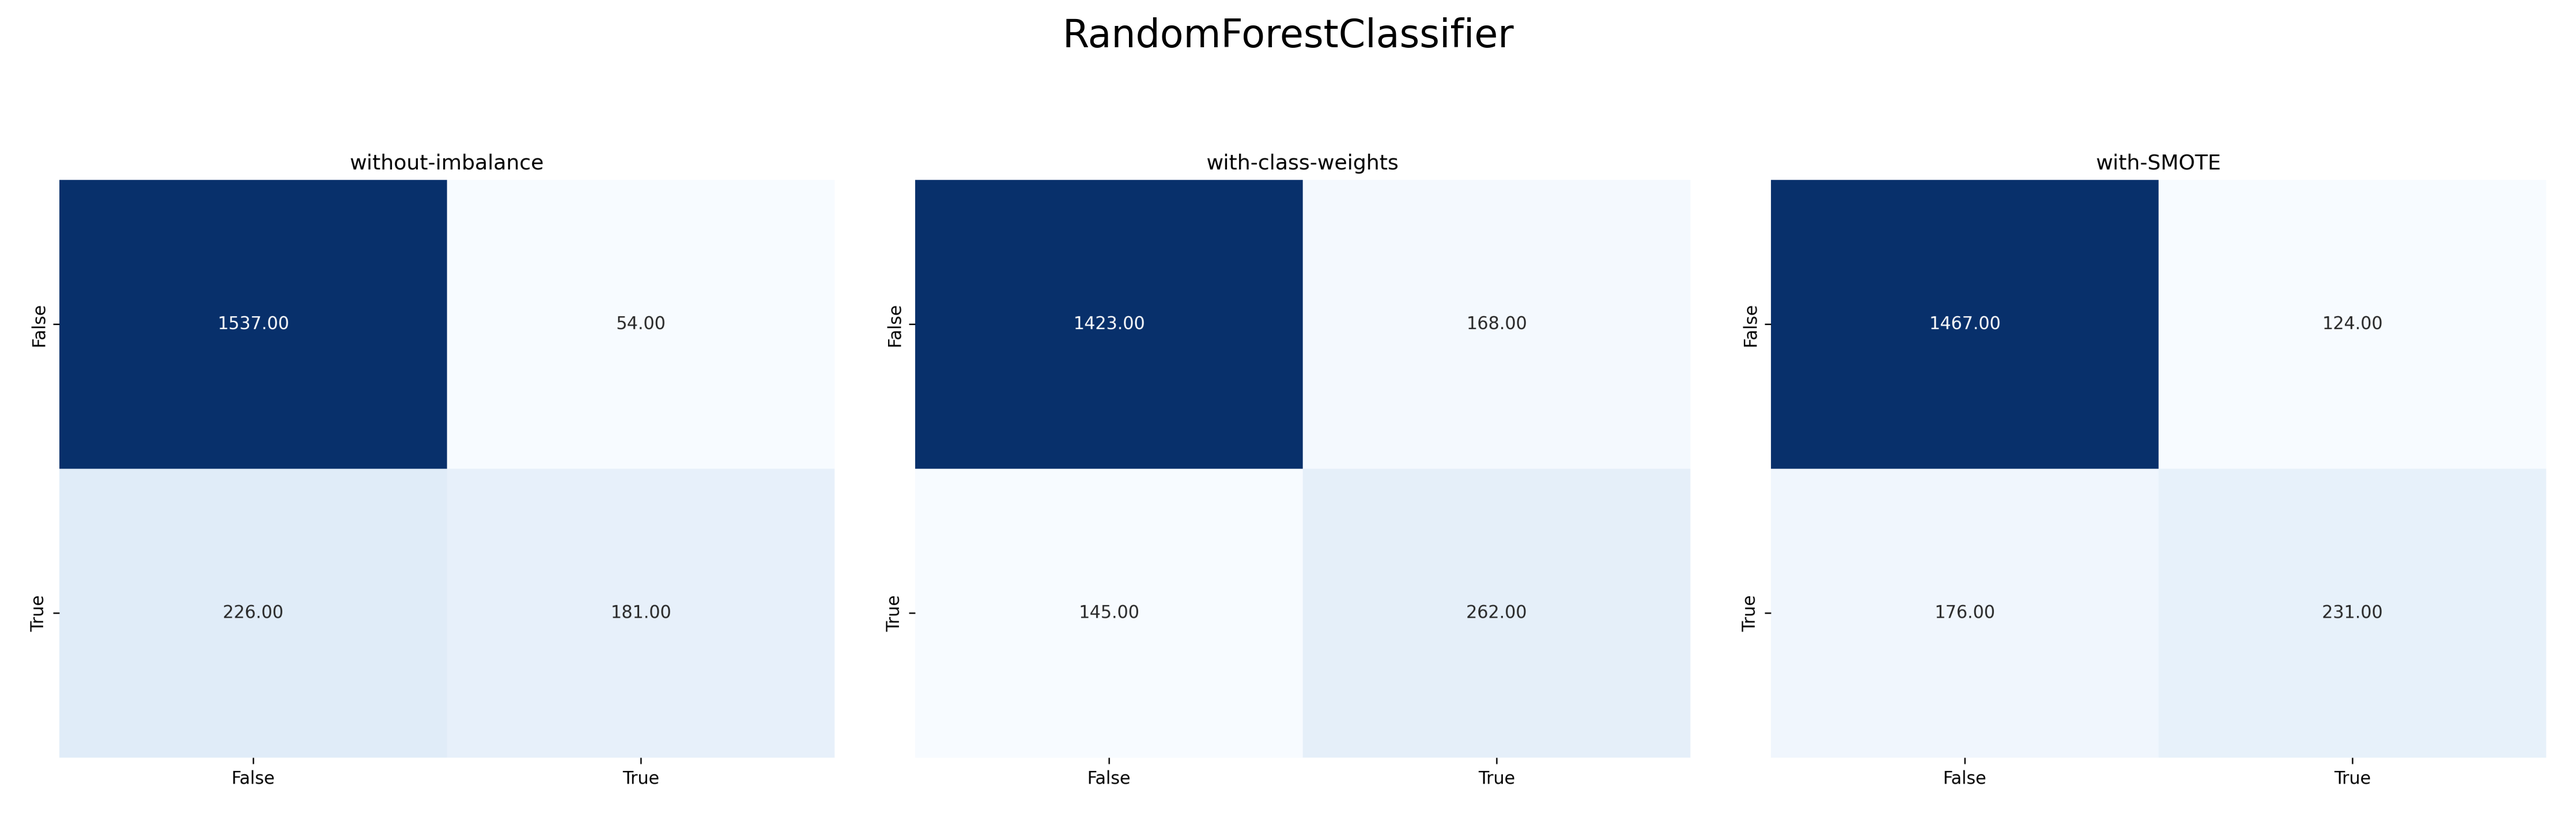
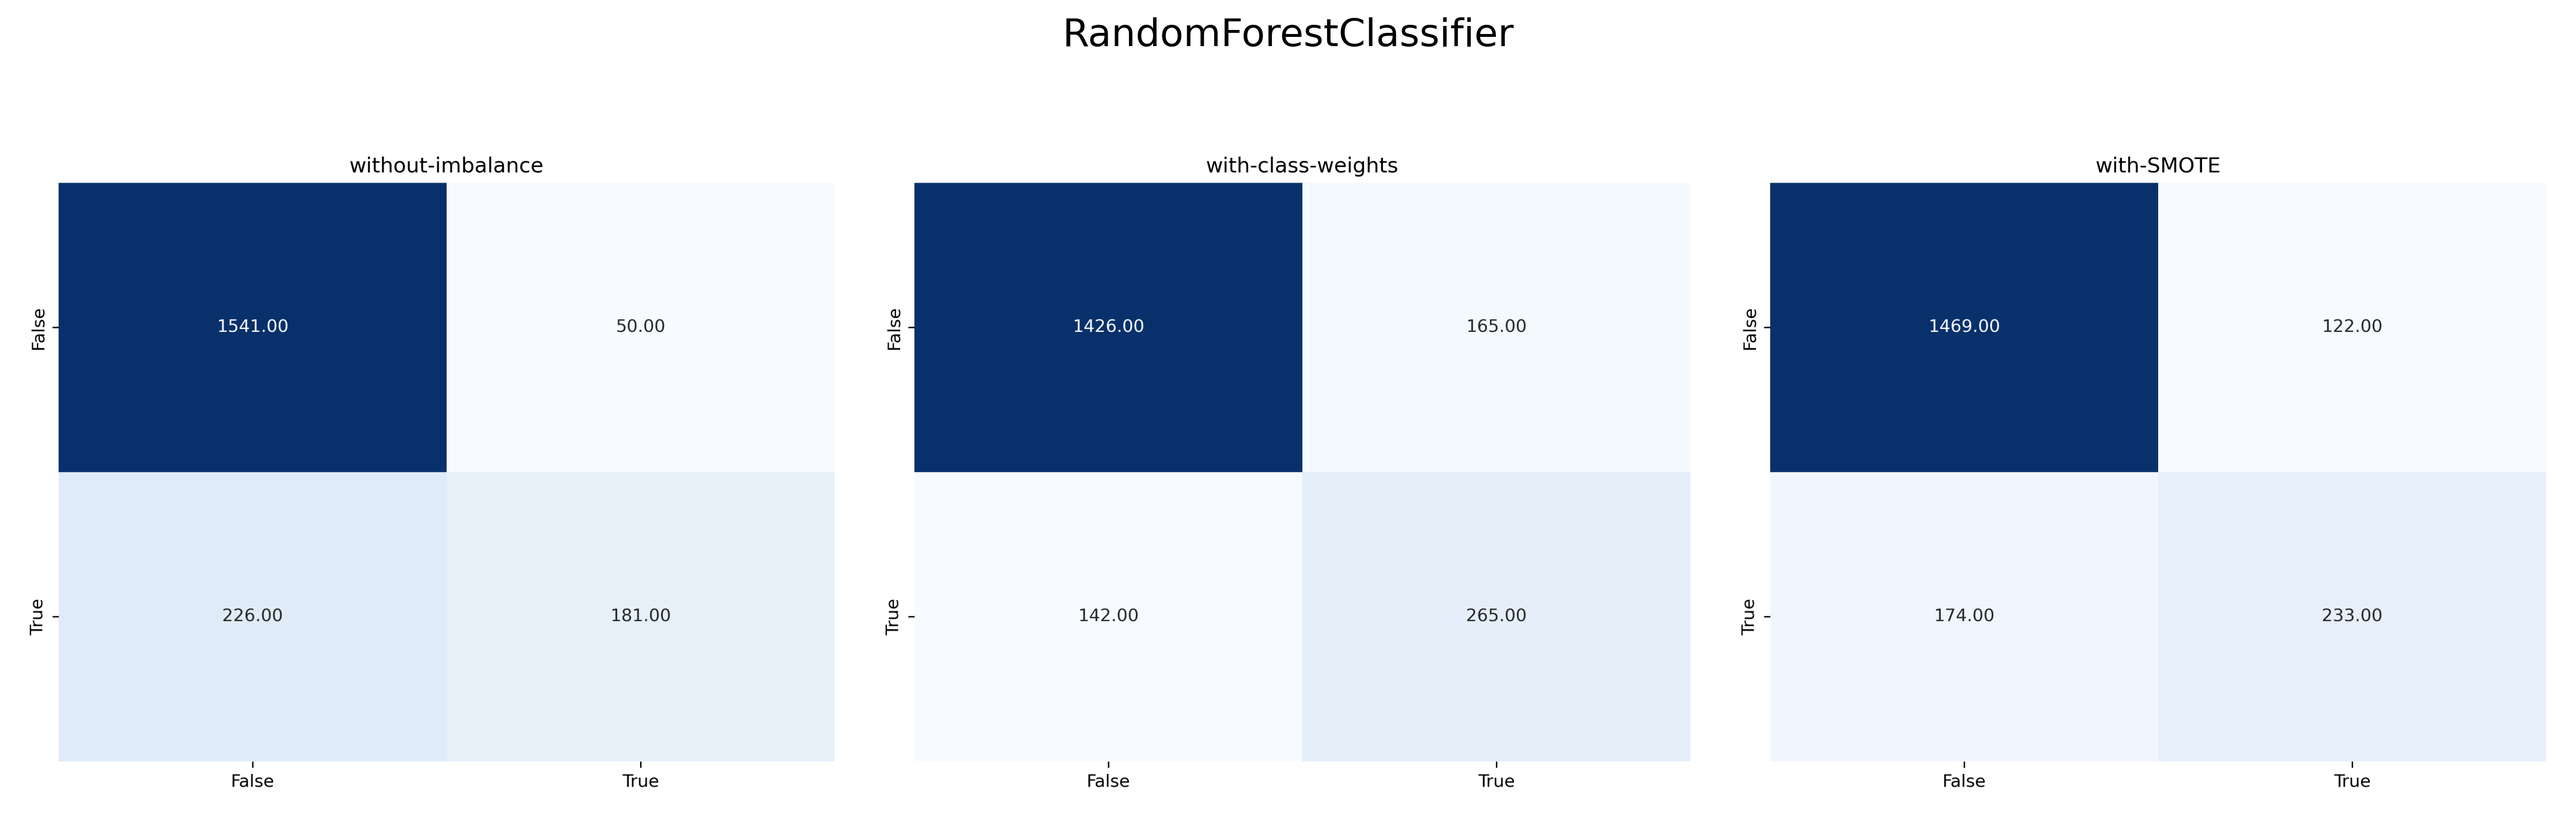
Update metrics and add DataFrameSelector class for improved data handling

diff --git a/script.py b/script.py
@@ -18,7 +18,18 @@ from sklearn.model_selection import train_test_split
 from sklearn.impute import SimpleImputer
 from sklearn.preprocessing import OneHotEncoder, StandardScaler
 from sklearn.pipeline import Pipeline, FeatureUnion
-from sklearn_features.transformers import DataFrameSelector
+
+
+class DataFrameSelector:
+    """Simple DataFrame column selector compatible with scikit-learn pipelines."""
+    def __init__(self, attribute_names):
+        self.attribute_names = attribute_names
+
+    def fit(self, X, y=None):
+        return self
+
+    def transform(self, X):
+        return X[self.attribute_names].values
 
 ## skelarn -- models
 # from sklearn.neighbors import KNeighborsClassifier
@@ -47,14 +58,14 @@ for col in ['Age', 'CreditScore', 'Balance', 'EstimatedSalary']:
 
 
 ## Drop first 3 features
-df.drop(columns=['RowNumber', 'CustomerId', 'Surname'], axis=1, inplace=True)
+df.drop(columns=['RowNumber', 'CustomerId', 'Surname'], inplace=True)
 
 ## Filtering using Age Feature using threshold
-df.drop(index=df[df['Age'] > 80].index.tolist(), axis=0, inplace=True)
+df.drop(index=df[df['Age'] > 80].index.tolist(), inplace=True)
 
 
 ## To features and target
-X = df.drop(columns=['Exited'], axis=1)
+X = df.drop(columns=['Exited'])
 y = df['Exited']
 
 ## Split to train and test
